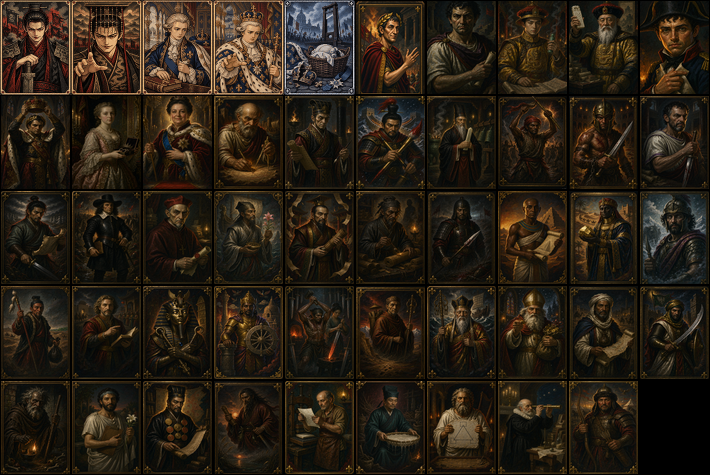
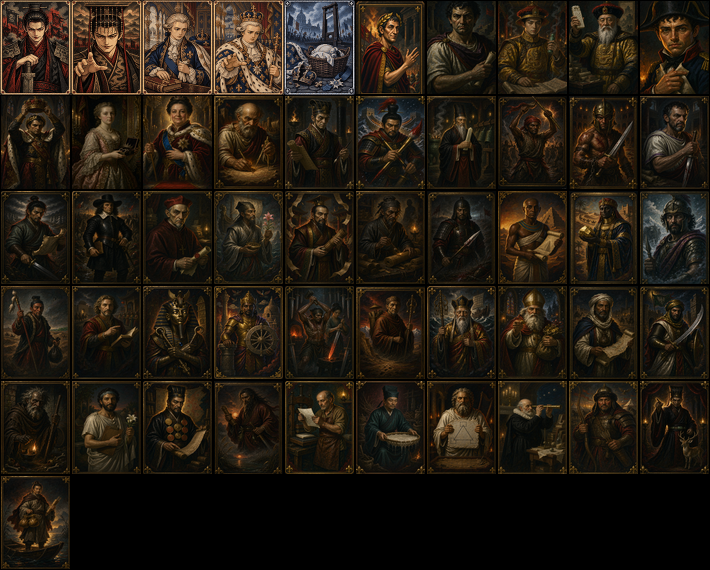
v0.4.0: 新增赵高、范蠡两张小丑
赵高（r2）：回合开始时随机改一张手牌的花色；若因此凑成 5 张同花 +$3。
  全 mod 唯一动花色的卡，赌同花，不碰数值轴。
范蠡（r3）：出售小丑额外获得售价 50% 现金；若在盲注内出售，
  下一手再按售价×20 追加筹码。与庇护（壳不可售）形成取舍。
- hist_jokers 图集 10×5 -> 10×6，新卡占 49/50 格，旧格位未动
- check_pos.py 改为按图集实际尺寸算行列
- 版本 0.4.0，双语 README / release.yml / CHANGELOG 同步（51 小丑，96/103 美术）

diff --git a/README.md b/README.md
@@ -6,7 +6,7 @@
 
 ![预览](docs/preview.png)
 
-**v0.3.5**：49 张小丑 + 26 张消耗牌 + 18 张优惠券 + 6 个 Boss 盲注 + 2 个标签 + 20 个开局时局，中英双语文案。**美术 94 / 101 已出图**——小丑、消耗牌、优惠券、贴纸、标签全部接入自定义图集，只剩 6 个 Boss 仍在征集。
+**v0.4.0**：51 张小丑 + 26 张消耗牌 + 18 张优惠券 + 6 个 Boss 盲注 + 2 个标签 + 20 个开局时局，中英双语文案。**美术 96 / 103 已出图**——小丑、消耗牌、优惠券、贴纸、标签全部接入自定义图集，只剩 6 个 Boss 仍在征集。
 
 三条主线——**登基、吞并、革命**——串起从嬴政到路易十六的五组人物。
 
@@ -86,10 +86,10 @@
 
 ## 当前状态与已知事项
 
-- **101 件内容全部已实现，静态检查通过**（语法 12/12、本地化 102 键零缺失、26 个挂点全部命中）。
+- **103 件内容全部已实现，静态检查通过**（语法 12/12、本地化键零缺失、26 个挂点全部命中）。
 - **实测覆盖率低**：仅时局系统跑通过完整链路（开局 3 选 1 → 改朝换代 → ante 3 轮换到黑铁时代）。其余条目待整局实测。
-- **美术 94 / 101**：六张图集全部接入，仅 6 个 Boss 盲注仍是原版帧占位。
-  - `hist_jokers` 10×5（49 张：5 组形态对 + 风云人物 36 张 + 路易十六的头）
+- **美术 96 / 103**：六张图集全部接入，仅 6 个 Boss 盲注仍是原版帧占位。
+  - `hist_jokers` 10×6（51 张：5 组形态对 + 风云人物 38 张 + 路易十六的头）
   - `hist_relics` 10×3（器物 14 张 + 幻灵 3 张 + 星图 9 张）
   - `hist_vouchers` 10×2（政策 18 张）
   - `hist_stickers` 10×2（贴纸中英各一行）、`hist_tags`（2 个标签）
@@ -102,10 +102,10 @@
 
 具体分工是这样的：
 
-- **卡面（101 件中的 94 件）**：用文生图模型出图。画什么、什么朝代气质、主体怎么摆、配色往哪走，是我写提示词定的；出图后由我筛选、裁切对齐图集格线、调色提亮、拼成 1x / 2x 两套。像素是模型产的，「这张卡该画成什么样」不是。
+- **卡面（103 件中的 96 件）**：用文生图模型出图。画什么、什么朝代气质、主体怎么摆、配色往哪走，是我写提示词定的；出图后由我筛选、裁切对齐图集格线、调色提亮、拼成 1x / 2x 两套。像素是模型产的，「这张卡该画成什么样」不是。
 - **代码**：AI 辅助编写，设计和验收在我。登基、吞并、革命三套系统的规则，时局轮换的状态机，花色锁定的计分入口，都是我先定行为再和模型一起实现，然后对着 Balatro 反编译出来的源码逐条核对——比如 `blind.in_blind` 这个字段其实不存在，是查了源码才发现的。
 - **文案与本地化**：中英双语 200 多条。主题、史实内核、卡名由我定，措辞在 AI 草稿上改。
-- **数值与平衡**：101 个对象的数值、彼此克制的关系、每个时局「一得一失」的分寸，是几十局测试里一点点调出来的。
+- **数值与平衡**：103 个对象的数值、彼此克制的关系、每个时局「一得一失」的分寸，是几十局测试里一点点调出来的。
 
 我知道不少玩家不接受 mod 里出现 AI 素材，这个态度是合理的，我没打算说服谁。把这个说明放在这里，只是让你在下载之前就知道自己装的是什么。
 
@@ -115,7 +115,7 @@
 
 六条内容线已全部出图，**只剩 6 个 Boss 盲注**：恐怖统治·罗伯斯庇尔、朕即国家·路易十四、大运河·隋炀帝、弭谤·周厉王、黑死病、结绳记事·印加。这六个目前仍用原版 Boss 帧占位。
 
-**现有 94 张 AI 卡面全部按占位处理，欢迎画师逐张替换**——这是这个 mod 现在最需要的帮助。同规格即可直接合入，作者会在 README 和 Release 里署名。
+**现有 96 张 AI 卡面全部按占位处理，欢迎画师逐张替换**——这是这个 mod 现在最需要的帮助。同规格即可直接合入，作者会在 README 和 Release 里署名。
 
 - 风格：Balatro 卡面，粗黑描边、平涂、高饱和撞色，**牌面无文字**（文案走本地化）。
 - 尺寸：单帧 71×95（1x）/ 142×190（2x），透明留白按类型不同——小丑满幅、券与消耗牌左右各留 4–6px。
@@ -127,4 +127,4 @@ Mod 内容与代码版权归作者 jasperwang614。原版游戏版权归 LocalTh
 
 ---
 
-EN: A history-themed Balatro content mod — emperors, relics, institutions and revolutions. v0.3.5: 49 jokers, 26 consumables, 18 vouchers, 6 Boss blinds, 2 tags and 20 opening "omens", art 94/101. Three intertwined systems: **coronation** (five figures each with a base and an emperor form), **annexation** (Qin Shi Huang swallows the board into shells that relay their effects), and **revolution** (guillotine, Brutus, and a head that ends a Boss blind when sold). Full Chinese and English localization. Requires Lovely + Steamodded 1.0+.
+EN: A history-themed Balatro content mod — emperors, relics, institutions and revolutions. v0.4.0: 51 jokers, 26 consumables, 18 vouchers, 6 Boss blinds, 2 tags and 20 opening "omens", art 96/103. Three intertwined systems: **coronation** (five figures each with a base and an emperor form), **annexation** (Qin Shi Huang swallows the board into shells that relay their effects), and **revolution** (guillotine, Brutus, and a head that ends a Boss blind when sold). Full Chinese and English localization. Requires Lovely + Steamodded 1.0+.

diff --git a/README.en.md b/README.en.md
@@ -6,7 +6,7 @@ A history-themed Balatro content mod: emperors, relics, institutions and revolut
 
 ![preview](docs/preview.png)
 
-**v0.3.5**: 49 jokers + 26 consumables + 18 vouchers + 6 Boss blinds + 2 tags + 20 opening omens, fully localized in Chinese and English. **Art is 94 / 101** — every joker, consumable, voucher, sticker and tag now uses a custom atlas; only the 6 Boss blinds are still placeholder frames.
+**v0.4.0**: 51 jokers + 26 consumables + 18 vouchers + 6 Boss blinds + 2 tags + 20 opening omens, fully localized in Chinese and English. **Art is 96 / 103** — every joker, consumable, voucher, sticker and tag now uses a custom atlas; only the 6 Boss blinds are still placeholder frames.
 
 Three interlocking systems — **coronation**, **annexation** and **revolution** — carry five figures from Ying Zheng to Louis XVI.
 
@@ -86,10 +86,10 @@ Suit locks hook into the return value of `get_poker_hand_info` — preview and s
 
 ## Status and Known Issues
 
-- **All 101 items are implemented and pass static checks**: syntax 12/12 files, 102 localization keys per language with zero missing and zero orphans, 26/26 hooked vanilla functions present.
+- **All 103 items are implemented and pass static checks**: syntax 12/12 files, localization keys per language with zero missing and zero orphans, 26/26 hooked vanilla functions present.
 - **Test coverage is low**: only the omen system has been verified end-to-end (opening pick → Dynastic Change → rotation to Iron Age at ante 3). The remaining entries still need full-run testing.
-- **Art is 94 / 101**: six atlases are wired up; only the 6 Boss blinds still fall back to vanilla frames.
-  - `hist_jokers` 10×5 (49 cards: five form pairs + 36 historical figures + the Head of Louis XVI)
+- **Art is 96 / 103**: six atlases are wired up; only the 6 Boss blinds still fall back to vanilla frames.
+  - `hist_jokers` 10×6 (51 cards: five form pairs + 38 historical figures + the Head of Louis XVI)
   - `hist_relics` 10×3 (14 relics + 3 spectral + 9 planet cards)
   - `hist_vouchers` 10×2 (18 policies)
   - `hist_stickers` 10×2 (stickers, one Chinese row and one English row) and `hist_tags` (2 tags)
@@ -102,7 +102,7 @@ Up front, because it shouldn't take detective work: **the card art is AI-generat
 
 Where the line actually falls:
 
-- **Card art (94 of 101 assets)**: produced with a text-to-image model. I wrote the prompts — what the card depicts, the period feel, the composition, the palette — then selected, cropped to the atlas grid, colour-corrected and assembled the 1x / 2x sheets. The model produced the pixels; it did not decide what each card should be.
+- **Card art (96 of 103 assets)**: produced with a text-to-image model. I wrote the prompts — what the card depicts, the period feel, the composition, the palette — then selected, cropped to the atlas grid, colour-corrected and assembled the 1x / 2x sheets. The model produced the pixels; it did not decide what each card should be.
 - **Code**: written with AI assistance, designed and verified by me. The coronation, annexation and revolution systems, the omen rotation state machine and the suit-lock scoring hook were specified by me first, implemented with a model, then checked line by line against Balatro's decompiled source — that is how I found out `blind.in_blind` doesn't actually exist.
 - **Copy and localisation**: 200+ strings in Chinese and English. Themes, historical hooks and card names are mine; the wording was drafted with AI and edited by me.
 - **Numbers and balance**: every value, every counter and every omen trade-off was tuned over dozens of test runs.
@@ -115,7 +115,7 @@ I treat the art as **replaceable placeholder work**: the atlas layout, frame siz
 
 All six content lines are drawn; **only the 6 Boss blinds remain** — Reign of Terror (Robespierre), L'État c'est moi (Louis XIV), the Grand Canal (Sui Yangdi), Suppressing Criticism (King Li of Zhou), the Black Death, and Quipu (the Inca). They currently borrow vanilla Boss frames.
 
-**All 94 existing AI card images are treated as placeholders and are open for replacement, card by card** — that is the most useful help this mod can get right now. Same spec, drops straight in, and the artist gets credited in the README and the release notes.
+**All 96 existing AI card images are treated as placeholders and are open for replacement, card by card** — that is the most useful help this mod can get right now. Same spec, drops straight in, and the artist gets credited in the README and the release notes.
 
 - Style: Balatro card art — heavy black outlines, flat fills, high-saturation clashing colours, **no text on the art** (all copy lives in localization).
 - Size: 71×95 per frame (1x) / 142×190 (2x); transparent margins differ by type — jokers full-bleed, vouchers and consumables 4–6px on each side.

diff --git a/CHANGELOG.md b/CHANGELOG.md
@@ -1,5 +1,14 @@
 # 更新日志
 
+## v0.4.0 — 2026-11-27
+
+**新增两张小丑（51 张）**
+
+- **赵高**（r2）：回合开始时随机改变手中一张牌的花色；若因此凑成 5 张同花，+$3。全 mod 唯一动花色的卡——赌同花，不碰数值轴。
+- **范蠡**（r3）：出售一张小丑时，额外获得其售价 50% 的现金；**若这次出售发生在盲注内**，下一手再额外获得「售价 ×20」的筹码。把「出售」变成构筑动作，且与庇护（壳不可售）天然互斥——留着代发还是套现，要选。
+- `hist_jokers` 图集从 10×5 扩到 **10×6**，新卡占 49、50 格；1x / 2x 同步扩容，旧格位一个没动。
+- `check_pos.py` 改为按图集实际尺寸算行列，以后扩表不用再手改校验脚本。
+
 ## v0.3.5 — 2026-11-27
 
 **修复：吞并收窄回秦始皇专属**
